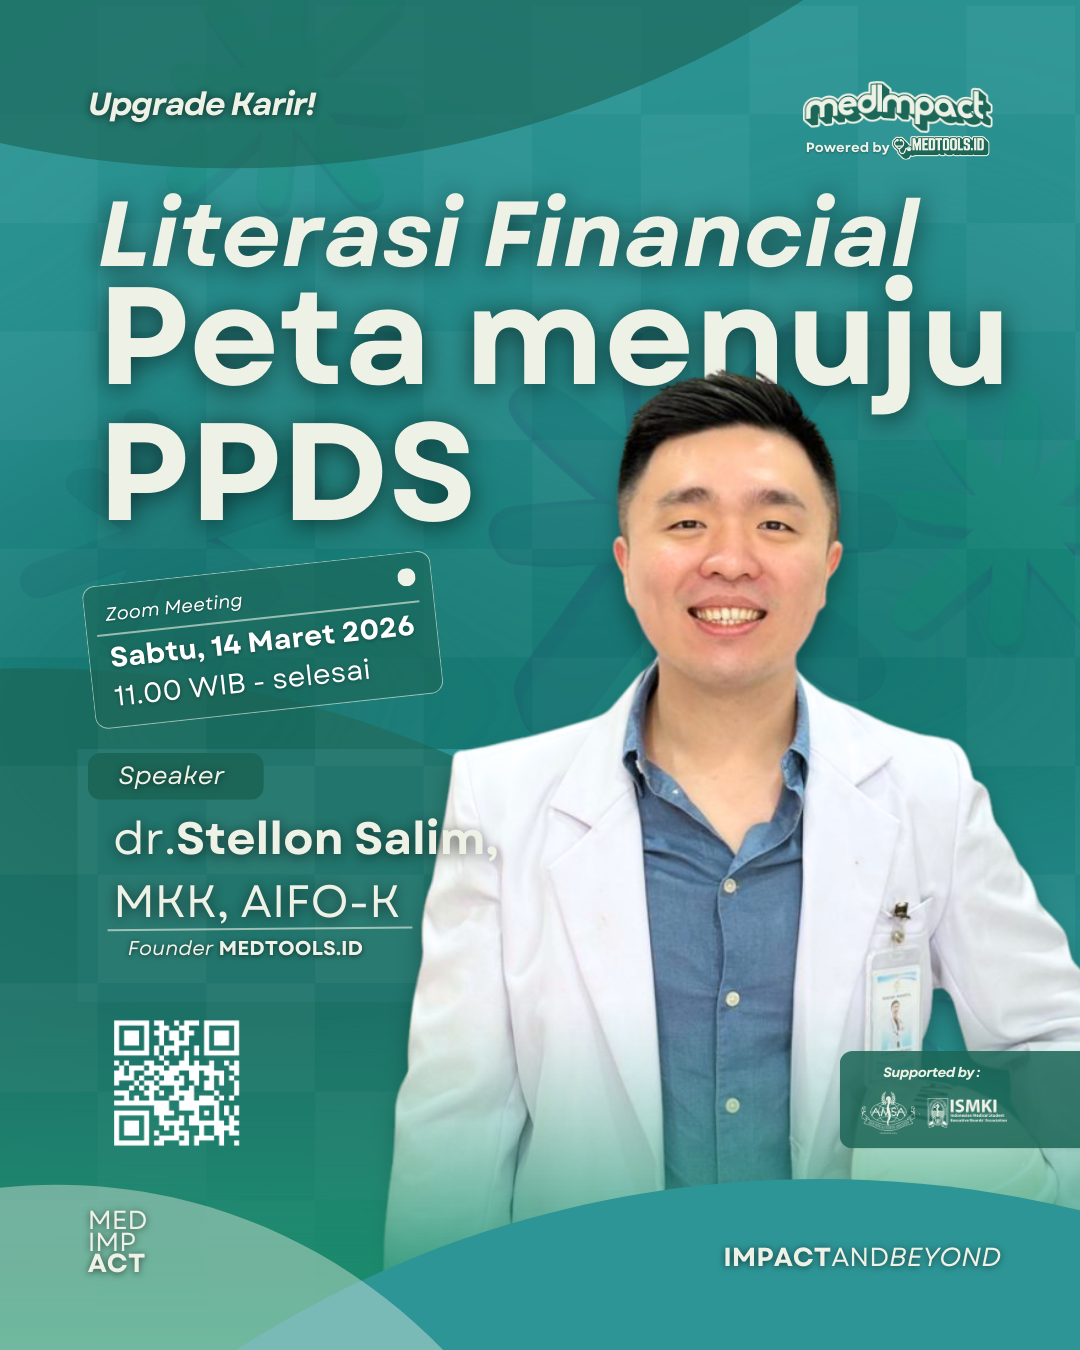
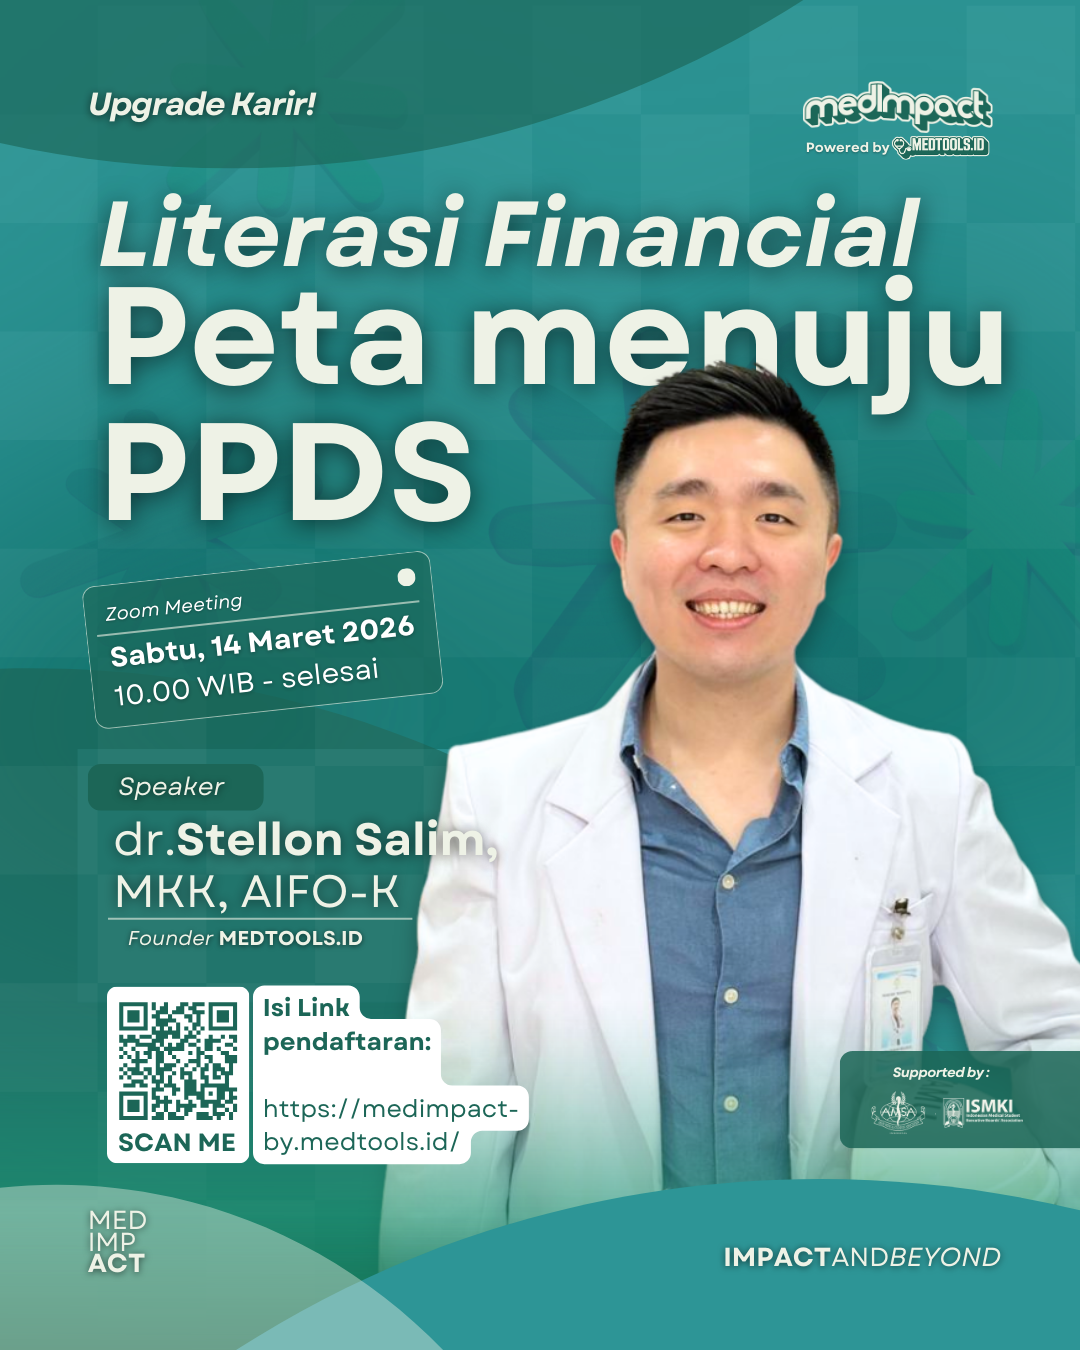
chore: update webinar poster and change time to 10.00 WIB

diff --git a/index.html b/index.html
@@ -349,7 +349,7 @@
                         <path
                             d="M11.99 2C6.47 2 2 6.48 2 12s4.47 10 9.99 10C17.52 22 22 17.52 22 12S17.52 2 11.99 2zM12 20c-4.42 0-8-3.58-8-8s3.58-8 8-8 8 3.58 8 8-3.58 8-8 8zm.5-13H11v6l5.25 3.15.75-1.23-4.5-2.67z" />
                     </svg>
-                    <span><strong>Waktu:</strong> 11.00 WIB - Selesai</span>
+                    <span><strong>Waktu:</strong> 10.00 WIB - Selesai</span>
                 </div>
                 <div class="detail-item">
                     <svg class="detail-icon" viewBox="0 0 24 24">
